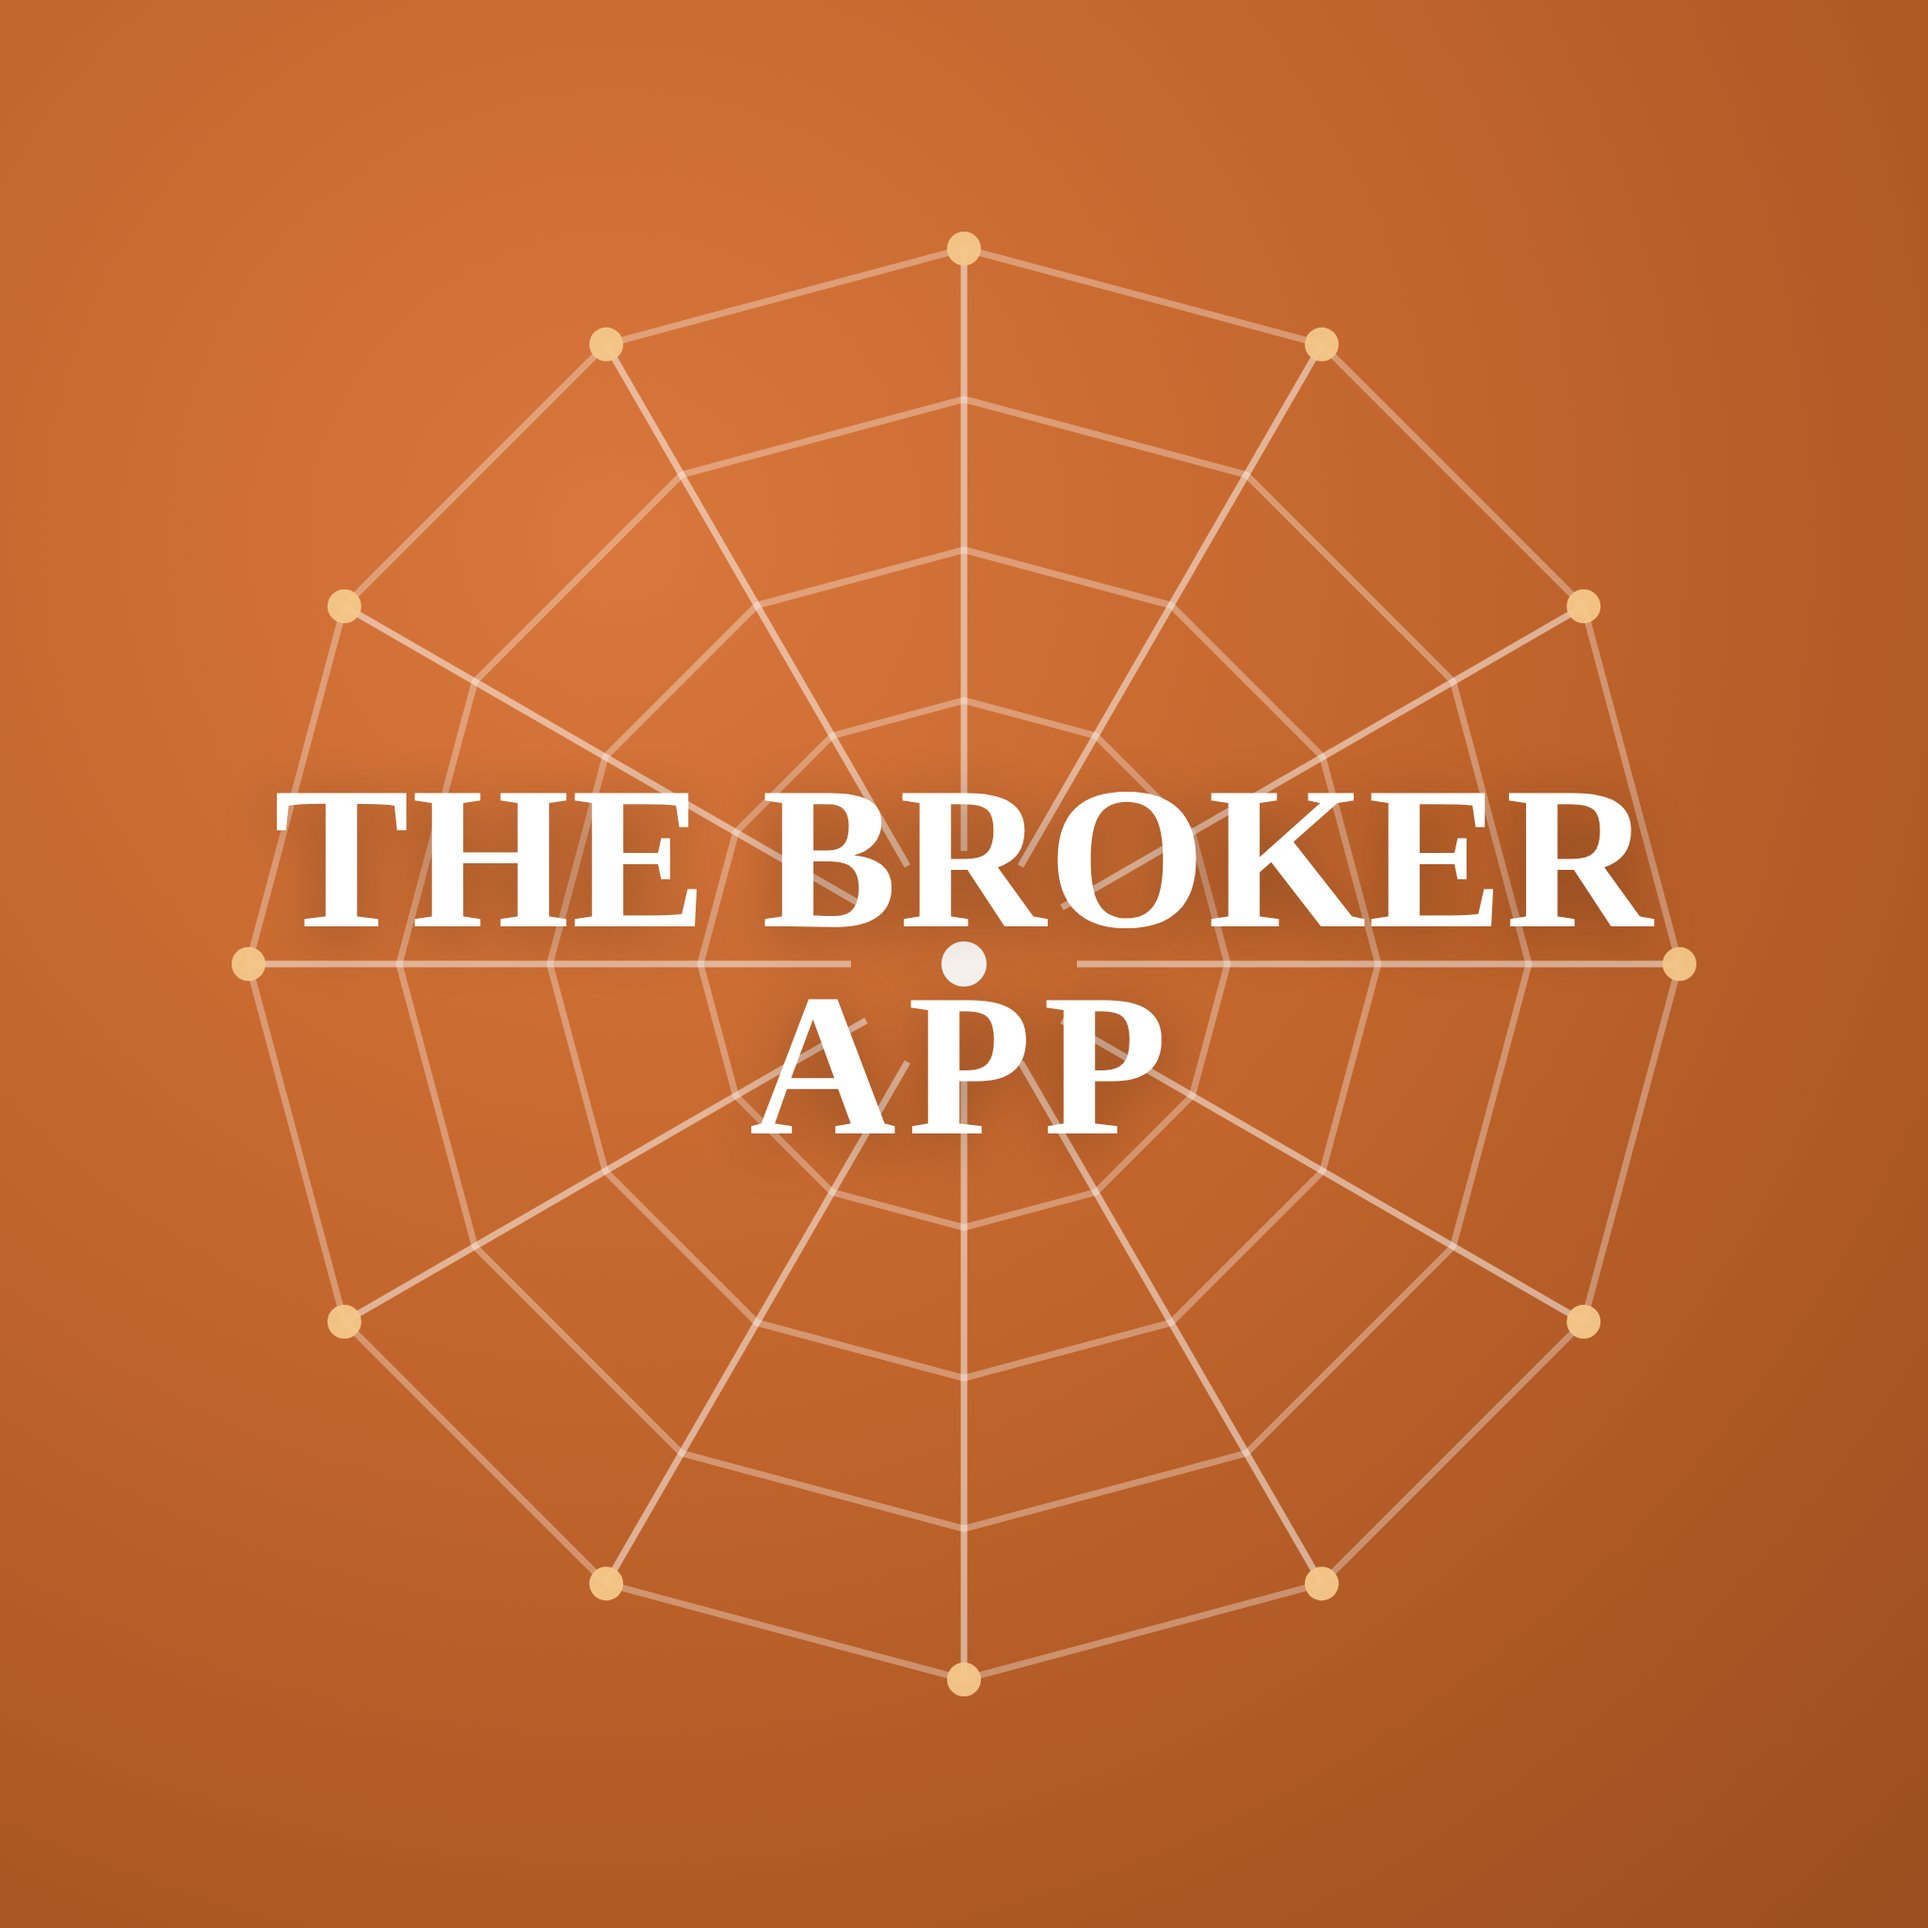
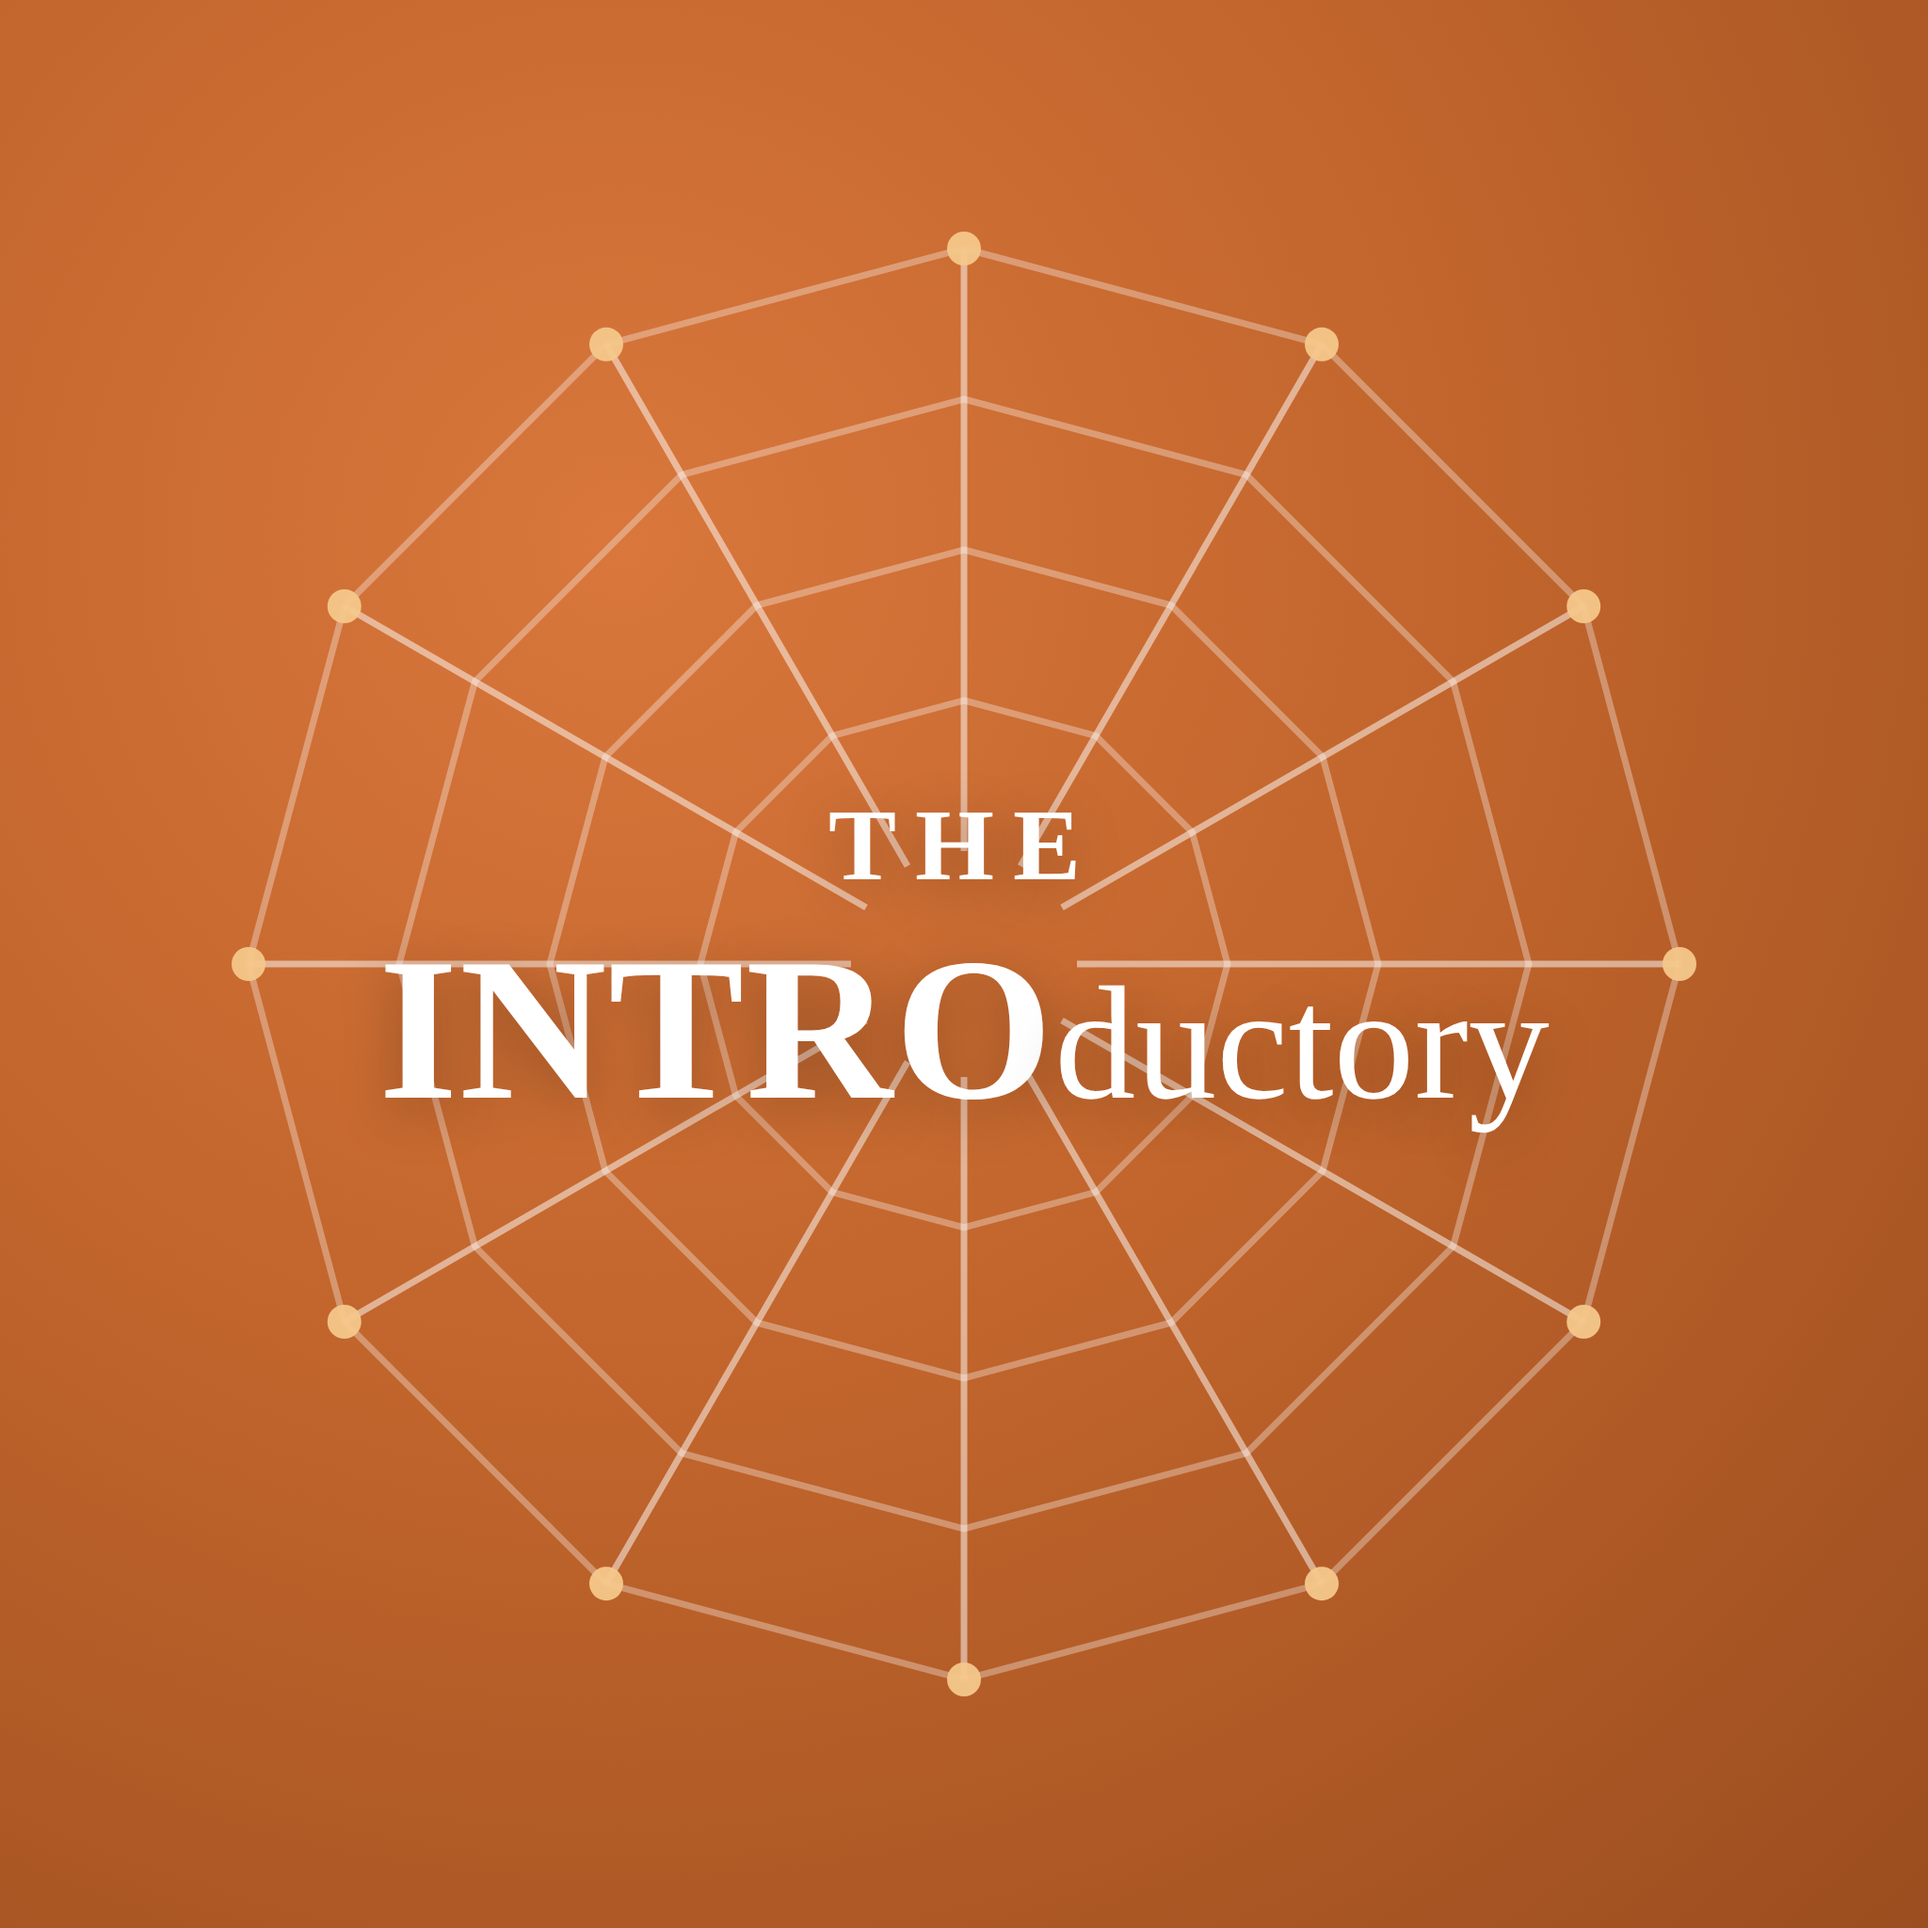
Rebrand to THE INTROductory
Rename the product from THE BROKER APP to THE INTROductory across
every page (titles, headers, footers, copy, admin dashboard, and the
mock user directory), fitting since the whole app is about brokering
introductions between brands and creators.

Regenerate the logo/profile picture to match: same spider-web mark,
with the wordmark restyled as "THE" over "INTROductory", where
"INTRO" is bold and oversized against a lighter "ductory" to make
the pun legible at a glance. This same image is used as the nav
logo, the favicon, and the standalone profile picture everywhere.

Claude-Session: https://claude.ai/code/session_014n3A4MrQBkNSQjiuqQb3Lh

Changed region(s): [[0.125, 0.4062, 0.875, 0.5938]]

diff --git a/about.html b/about.html
@@ -4,7 +4,7 @@
 <meta charset="UTF-8">
 <script>if(!localStorage.getItem("tba_authed")){location.replace("index.html");}</script>
 <meta name="viewport" content="width=device-width, initial-scale=1.0">
-<title>About — THE BROKER APP</title>
+<title>About — THE INTROductory</title>
 <link rel="preconnect" href="https://fonts.googleapis.com">
 <link rel="preconnect" href="https://fonts.gstatic.com" crossorigin>
 <link href="https://fonts.googleapis.com/css2?family=Playfair+Display:wght@600;700&family=Source+Serif+4:wght@400;500&family=Caveat:wght@600;700&display=swap" rel="stylesheet">
@@ -18,7 +18,7 @@
     <a class="brand" href="home.html">
       <span class="brand-lockup">
         <span class="brand-logo">
-          <img src="assets/profile-picture.png" alt="THE BROKER APP" class="brand-mark-img" width="256" height="256">
+          <img src="assets/profile-picture.png" alt="THE INTROductory" class="brand-mark-img" width="256" height="256">
         </span>
         <span class="brand-tagline">a note from the founder</span>
       </span>
@@ -38,13 +38,13 @@
   <div class="letterhead">
     <div class="eyebrow">About Us</div>
     <h1>A Letter From Our Team</h1>
-    <div class="dateline">THE BROKER APP &middot; Founded 2026</div>
+    <div class="dateline">THE INTROductory &middot; Founded 2026</div>
   </div>
 
   <div class="letter-body">
     <p class="opening">
       Too many great partnerships fall apart in the DMs — vague offers, ghosted
-      messages, and terms nobody wrote down. We started THE BROKER APP
+      messages, and terms nobody wrote down. We started THE INTROductory
       to make influencer and business deals feel less like a scramble and more
       like a conversation between people who trust each other.
     </p>
@@ -53,7 +53,7 @@
   <section>
     <h2>Our Story</h2>
     <p>
-      We built THE BROKER APP as the home base where brands and creators
+      We built THE INTROductory as the home base where brands and creators
       can find each other, talk it through, and land on a deal that actually
       works for both sides — plainly, honestly, and without the back-channel
       guesswork.
@@ -100,7 +100,7 @@
       </div>
       <div>
         <div class="label">Company</div>
-        <div class="value">THE BROKER APP</div>
+        <div class="value">THE INTROductory</div>
       </div>
     </div>
   </div>
@@ -108,7 +108,7 @@
 </main>
 
 <footer>
-  &copy; 2026 THE BROKER APP. Built with care by Andre Anderson &amp; team.
+  &copy; 2026 THE INTROductory. Built with care by Andre Anderson &amp; team.
 </footer>
 
 

diff --git a/home.html b/home.html
@@ -4,7 +4,7 @@
 <meta charset="UTF-8">
 <script>if(!localStorage.getItem("tba_authed")){location.replace("index.html");}</script>
 <meta name="viewport" content="width=device-width, initial-scale=1.0">
-<title>THE BROKER APP — Where brands and creators make the deal</title>
+<title>THE INTROductory — Where brands and creators make the deal</title>
 <link rel="preconnect" href="https://fonts.googleapis.com">
 <link rel="preconnect" href="https://fonts.gstatic.com" crossorigin>
 <link href="https://fonts.googleapis.com/css2?family=Fraunces:wght@500;600;700&family=DM+Sans:wght@400;500;700&display=swap" rel="stylesheet">
@@ -18,7 +18,7 @@
     <a class="brand" href="home.html">
       <span class="brand-lockup">
         <span class="brand-logo">
-          <img src="assets/profile-picture.png" alt="THE BROKER APP" class="brand-mark-img" width="256" height="256">
+          <img src="assets/profile-picture.png" alt="THE INTROductory" class="brand-mark-img" width="256" height="256">
         </span>
         <span class="brand-tagline">deals made the honest way</span>
       </span>
@@ -40,7 +40,7 @@
       <div class="eyebrow">Influencer &amp; Business Deals, Under One Roof</div>
       <h1>Where brands and creators sit down at the same table.</h1>
       <p class="lede">
-        THE BROKER APP is the place brands and influencers meet, message,
+        THE INTROductory is the place brands and influencers meet, message,
         and work out a deal that feels fair to everyone — no cold DMs, no
         guesswork, no disappearing acts.
       </p>
@@ -105,7 +105,7 @@
 </main>
 
 <footer>
-  &copy; 2026 THE BROKER APP. Built with care by Andre Anderson &amp; team.
+  &copy; 2026 THE INTROductory. Built with care by Andre Anderson &amp; team.
 </footer>
 
 

diff --git a/messaging.html b/messaging.html
@@ -4,7 +4,7 @@
 <meta charset="UTF-8">
 <script>if(!localStorage.getItem("tba_authed")){location.replace("index.html");}</script>
 <meta name="viewport" content="width=device-width, initial-scale=1.0">
-<title>Messaging &amp; Negotiation — THE BROKER APP</title>
+<title>Messaging &amp; Negotiation — THE INTROductory</title>
 <link rel="preconnect" href="https://fonts.googleapis.com">
 <link rel="preconnect" href="https://fonts.gstatic.com" crossorigin>
 <link href="https://fonts.googleapis.com/css2?family=Inter:wght@400;500;600;700;800&family=JetBrains+Mono:wght@500;700&display=swap" rel="stylesheet">
@@ -19,7 +19,7 @@
     <a class="brand" href="home.html">
       <span class="brand-lockup">
         <span class="brand-logo">
-          <img src="assets/profile-picture.png" alt="THE BROKER APP" class="brand-mark-img" width="256" height="256">
+          <img src="assets/profile-picture.png" alt="THE INTROductory" class="brand-mark-img" width="256" height="256">
         </span>
         <span class="brand-tagline">Deal Room</span>
       </span>
@@ -141,7 +141,7 @@
   <div class="tab-panel" id="tab-find" hidden>
     <div class="find-people-head">
       <h2>Find People</h2>
-      <p>Search every account on THE BROKER APP by username and request to message them.</p>
+      <p>Search every account on THE INTROductory by username and request to message them.</p>
     </div>
 
     <div class="directory-search">
@@ -165,7 +165,7 @@
 </main>
 
 <footer>
-  &copy; 2026 THE BROKER APP. Built with care by Andre Anderson &amp; team.
+  &copy; 2026 THE INTROductory. Built with care by Andre Anderson &amp; team.
 </footer>
 
 

diff --git a/network.html b/network.html
@@ -4,7 +4,7 @@
 <meta charset="UTF-8">
 <script>if(!localStorage.getItem("tba_authed")){location.replace("index.html");}</script>
 <meta name="viewport" content="width=device-width, initial-scale=1.0">
-<title>The Network — THE BROKER APP</title>
+<title>The Network — THE INTROductory</title>
 <link rel="preconnect" href="https://fonts.googleapis.com">
 <link rel="preconnect" href="https://fonts.gstatic.com" crossorigin>
 <link href="https://fonts.googleapis.com/css2?family=Space+Grotesk:wght@400;500;600;700&family=JetBrains+Mono:wght@400;500&display=swap" rel="stylesheet">
@@ -18,7 +18,7 @@
     <a class="brand" href="home.html">
       <span class="brand-lockup">
         <span class="brand-logo">
-          <img src="assets/profile-picture.png" alt="THE BROKER APP" class="brand-mark-img" width="256" height="256">
+          <img src="assets/profile-picture.png" alt="THE INTROductory" class="brand-mark-img" width="256" height="256">
         </span>
         <span class="brand-tagline">// the_network</span>
       </span>
@@ -38,7 +38,7 @@
   <div class="page-head">
     <div class="eyebrow">Directory · Status: Building</div>
     <h1>The Network</h1>
-    <p>Every brand and creator on THE BROKER APP will connect here. We're wiring it up now.</p>
+    <p>Every brand and creator on THE INTROductory will connect here. We're wiring it up now.</p>
   </div>
 
   <div class="graph-wrap">
@@ -75,7 +75,7 @@
 </main>
 
 <footer>
-  &copy; 2026 THE BROKER APP. Built with care by Andre Anderson &amp; team.
+  &copy; 2026 THE INTROductory. Built with care by Andre Anderson &amp; team.
 </footer>
 
 

diff --git a/admin.html b/admin.html
@@ -4,7 +4,7 @@
 <meta charset="UTF-8">
 <script>if(!localStorage.getItem("tba_admin_authed")){location.replace("admin-signin.html");}</script>
 <meta name="viewport" content="width=device-width, initial-scale=1.0">
-<title>Admin Dashboard — THE BROKER APP</title>
+<title>Admin Dashboard — THE INTROductory</title>
 <link rel="preconnect" href="https://fonts.googleapis.com">
 <link rel="preconnect" href="https://fonts.gstatic.com" crossorigin>
 <link href="https://fonts.googleapis.com/css2?family=Inter:wght@400;500;600;700;800&family=JetBrains+Mono:wght@500;700&display=swap" rel="stylesheet">
@@ -15,8 +15,8 @@
 
 <header class="admin-header">
   <a class="brand" href="admin.html">
-    <img src="assets/profile-picture.png" alt="THE BROKER APP">
-    <span class="brand-title">THE BROKER APP <span class="badge">ADMIN</span></span>
+    <img src="assets/profile-picture.png" alt="THE INTROductory">
+    <span class="brand-title">THE INTROductory <span class="badge">ADMIN</span></span>
   </a>
   <nav>
     <a href="admin.html" class="active">Overview</a>

diff --git a/index.html b/index.html
@@ -3,7 +3,7 @@
 <head>
 <meta charset="UTF-8">
 <meta name="viewport" content="width=device-width, initial-scale=1.0">
-<title>Sign In — THE BROKER APP</title>
+<title>Sign In — THE INTROductory</title>
 <link rel="preconnect" href="https://fonts.googleapis.com">
 <link rel="preconnect" href="https://fonts.gstatic.com" crossorigin>
 <link href="https://fonts.googleapis.com/css2?family=Fraunces:wght@500;600;700&family=DM+Sans:wght@400;500;700&display=swap" rel="stylesheet">
@@ -18,11 +18,11 @@
 <div class="signin-wrap">
   <div class="signin-card">
     <span class="signin-logo">
-      <img src="assets/profile-picture.png" alt="THE BROKER APP" class="signin-logo-img">
+      <img src="assets/profile-picture.png" alt="THE INTROductory" class="signin-logo-img">
     </span>
 
     <h1>Create your account</h1>
-    <p class="signin-sub">Join THE BROKER APP and start making deals.</p>
+    <p class="signin-sub">Join THE INTROductory and start making deals.</p>
 
     <form id="signin-form" novalidate>
       <label class="field">

diff --git a/admin-signin.html b/admin-signin.html
@@ -3,7 +3,7 @@
 <head>
 <meta charset="UTF-8">
 <meta name="viewport" content="width=device-width, initial-scale=1.0">
-<title>Admin Sign In — THE BROKER APP</title>
+<title>Admin Sign In — THE INTROductory</title>
 <link rel="preconnect" href="https://fonts.googleapis.com">
 <link rel="preconnect" href="https://fonts.gstatic.com" crossorigin>
 <link href="https://fonts.googleapis.com/css2?family=Inter:wght@400;500;600;700;800&display=swap" rel="stylesheet">
@@ -16,7 +16,7 @@
   <div class="admin-signin-card">
     <div class="admin-badge">ADMIN ONLY</div>
     <h1>Admin Sign In</h1>
-    <p class="admin-sub">Restricted access — THE BROKER APP staff only.</p>
+    <p class="admin-sub">Restricted access — THE INTROductory staff only.</p>
 
     <form id="admin-form" novalidate>
       <label class="field">

diff --git a/assets/users-data.js b/assets/users-data.js
@@ -1,4 +1,4 @@
-// Shared mock user directory for THE BROKER APP demo.
+// Shared mock user directory for THE INTROductory demo.
 // In a real app this would come from a database — here it's a fixed
 // seed list plus whoever has signed up in this browser.
 
